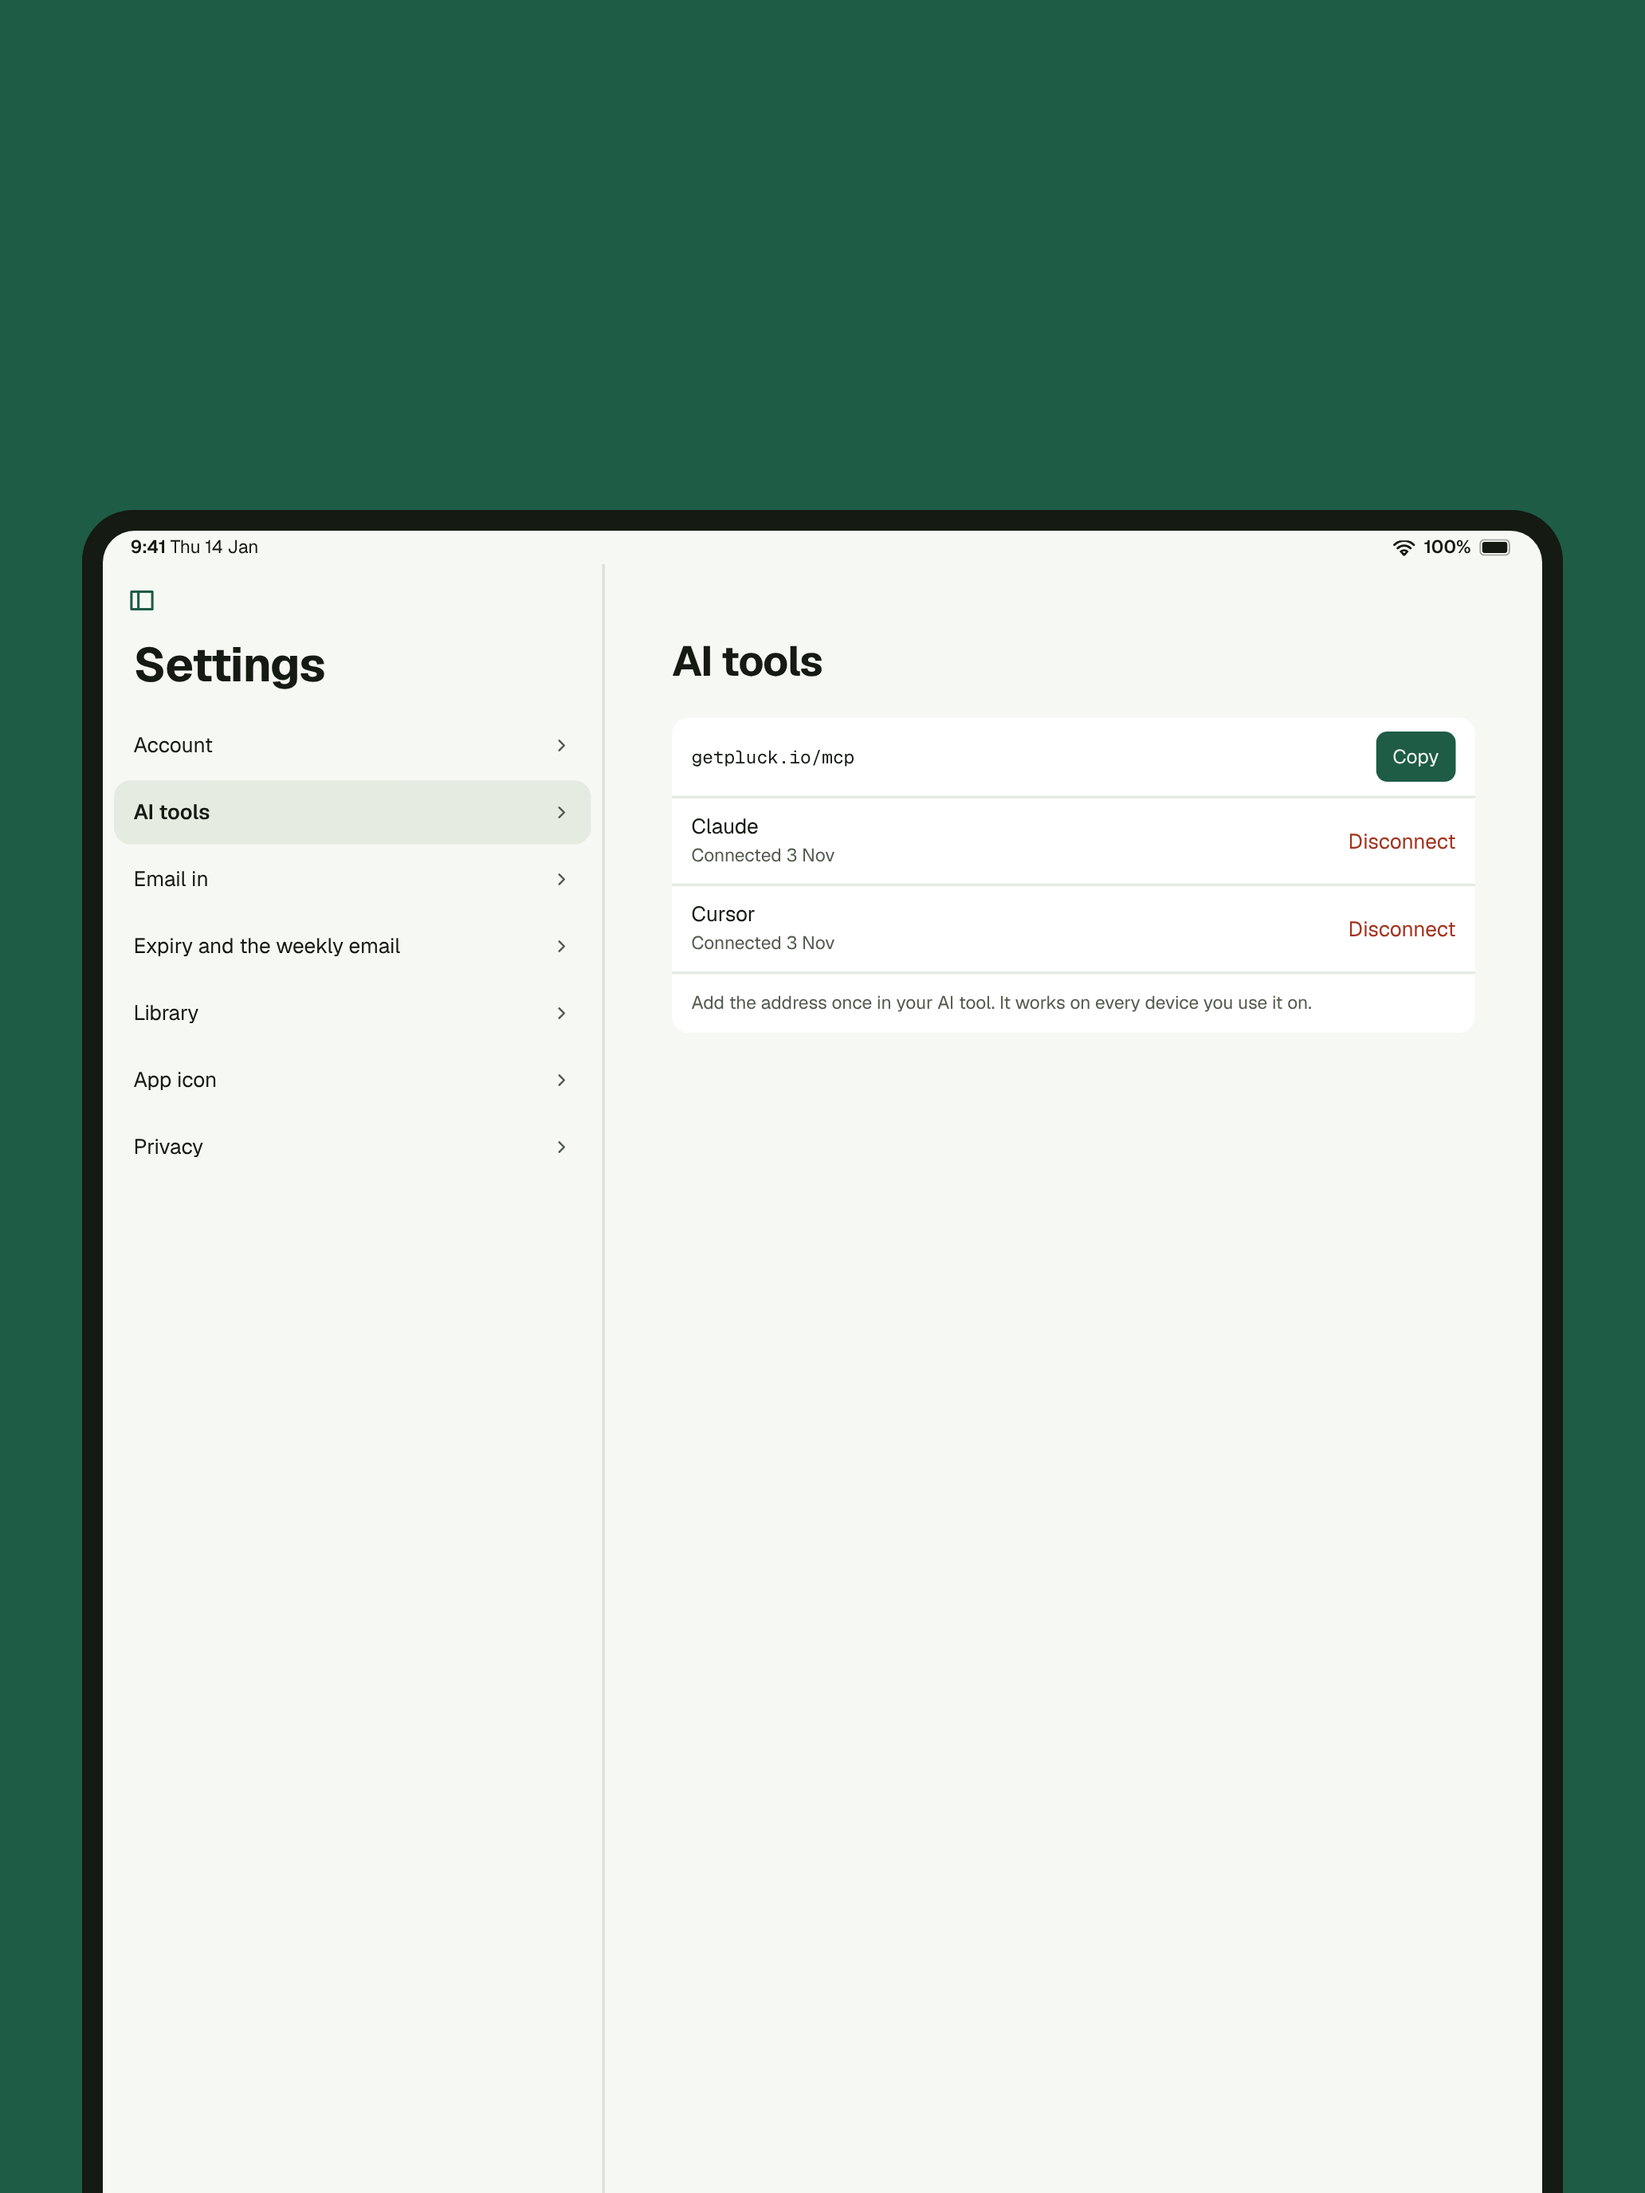
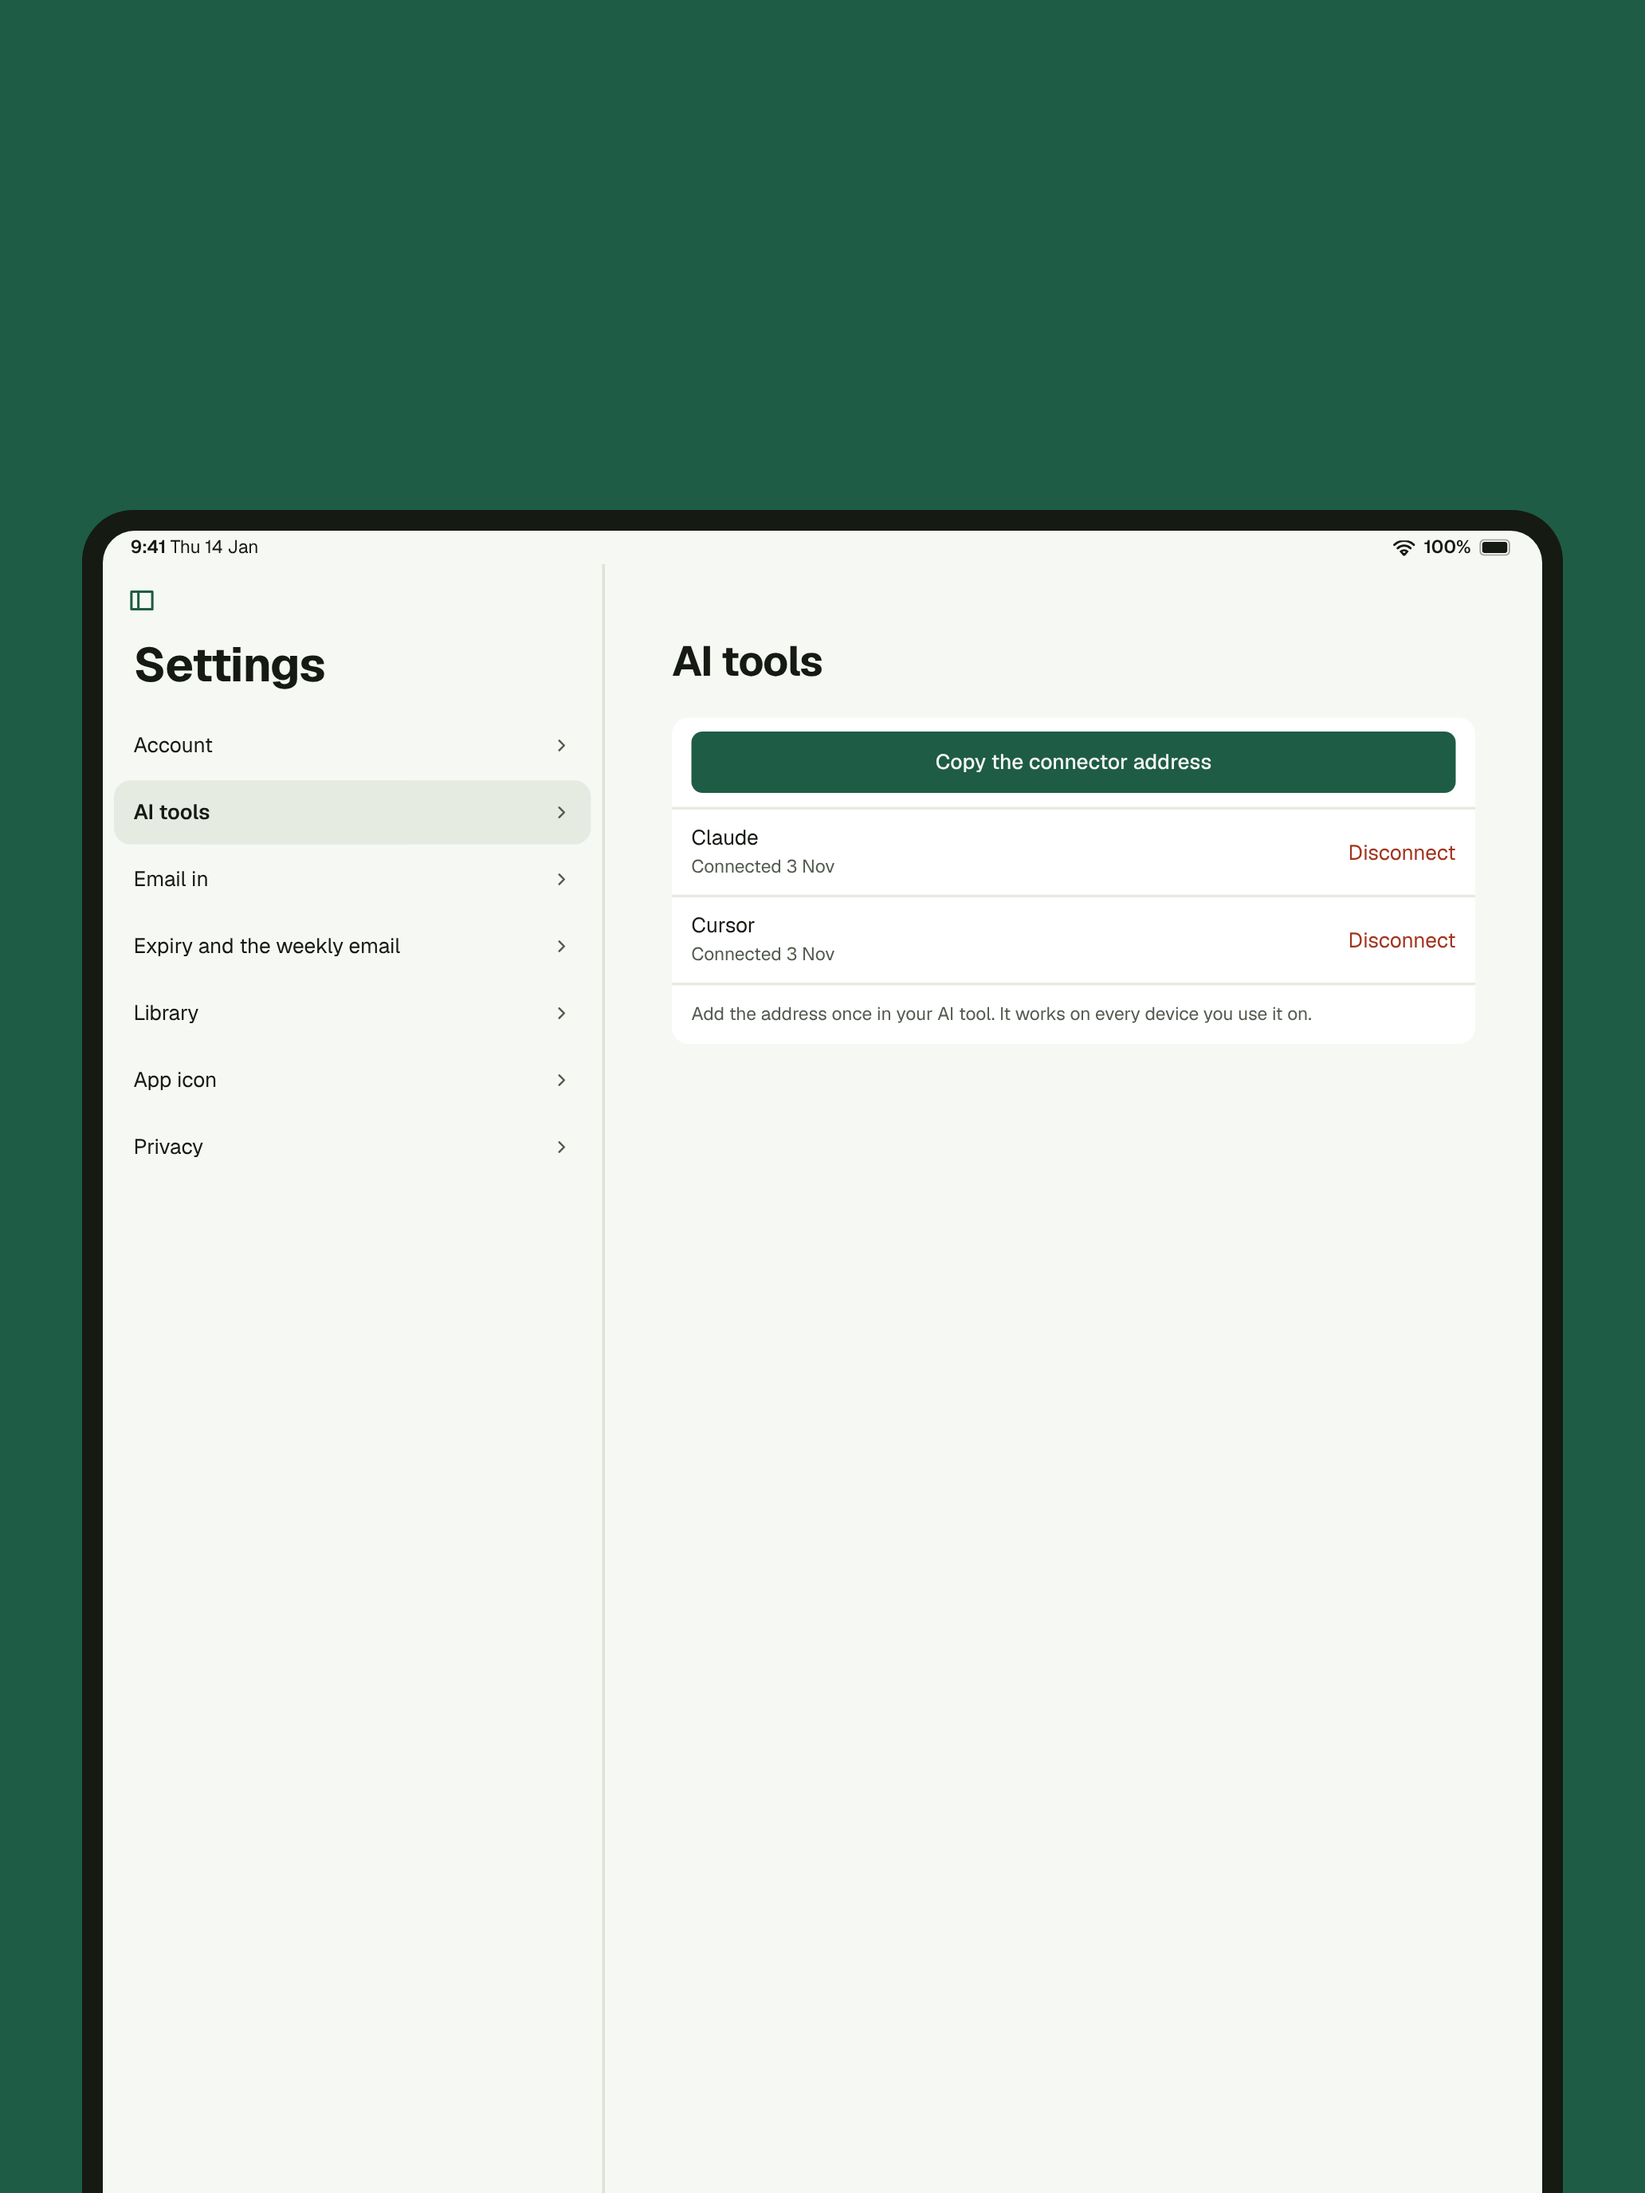
App Store iPad frame 6: the AI tools page as the app draws it
One full-width Copy the connector address button, Claude and Cursor with
Disconnect, and the hint. No address row.

Claude-Session: https://claude.ai/code/session_01RgTp73qDi7Am1LV9vHyQvh

Changed region(s): [[0.4031, 0.3125, 0.8992, 0.4688]]

diff --git a/docs/handover/design/AppStore-iPad-6.dc.html b/docs/handover/design/AppStore-iPad-6.dc.html
@@ -25,7 +25,7 @@
 <div style="padding: 0 22px 6px"><div style="font-size: 34px; line-height: 41px; font-weight: 700; letter-spacing: -0.68px; color: var(--ink)">Settings</div></div>
 <div style="display: flex; flex-direction: column; gap: 2px; margin-top: 8px"><div style="display: flex; align-items: center; gap: 12px; min-height: 46px; padding: 0 14px; margin: 0 8px; border-radius: 12px; "><span style="flex: 1; font-size: 15px; ; color: var(--ink)">Account</span><svg width="14" height="14" viewBox="0 0 16 16" style="flex: none; display: block"><path d="M6 4l4 4-4 4" fill="none" stroke="var(--ink2)" stroke-width="1.6" stroke-linecap="round" stroke-linejoin="round"/></svg></div><div style="display: flex; align-items: center; gap: 12px; min-height: 46px; padding: 0 14px; margin: 0 8px; border-radius: 12px; background: var(--selected)"><span style="flex: 1; font-size: 15px; font-weight: 600; color: var(--ink)">AI tools</span><svg width="14" height="14" viewBox="0 0 16 16" style="flex: none; display: block"><path d="M6 4l4 4-4 4" fill="none" stroke="var(--ink2)" stroke-width="1.6" stroke-linecap="round" stroke-linejoin="round"/></svg></div><div style="display: flex; align-items: center; gap: 12px; min-height: 46px; padding: 0 14px; margin: 0 8px; border-radius: 12px; "><span style="flex: 1; font-size: 15px; ; color: var(--ink)">Email in</span><svg width="14" height="14" viewBox="0 0 16 16" style="flex: none; display: block"><path d="M6 4l4 4-4 4" fill="none" stroke="var(--ink2)" stroke-width="1.6" stroke-linecap="round" stroke-linejoin="round"/></svg></div><div style="display: flex; align-items: center; gap: 12px; min-height: 46px; padding: 0 14px; margin: 0 8px; border-radius: 12px; "><span style="flex: 1; font-size: 15px; ; color: var(--ink)">Expiry and the weekly email</span><svg width="14" height="14" viewBox="0 0 16 16" style="flex: none; display: block"><path d="M6 4l4 4-4 4" fill="none" stroke="var(--ink2)" stroke-width="1.6" stroke-linecap="round" stroke-linejoin="round"/></svg></div><div style="display: flex; align-items: center; gap: 12px; min-height: 46px; padding: 0 14px; margin: 0 8px; border-radius: 12px; "><span style="flex: 1; font-size: 15px; ; color: var(--ink)">Library</span><svg width="14" height="14" viewBox="0 0 16 16" style="flex: none; display: block"><path d="M6 4l4 4-4 4" fill="none" stroke="var(--ink2)" stroke-width="1.6" stroke-linecap="round" stroke-linejoin="round"/></svg></div><div style="display: flex; align-items: center; gap: 12px; min-height: 46px; padding: 0 14px; margin: 0 8px; border-radius: 12px; "><span style="flex: 1; font-size: 15px; ; color: var(--ink)">App icon</span><svg width="14" height="14" viewBox="0 0 16 16" style="flex: none; display: block"><path d="M6 4l4 4-4 4" fill="none" stroke="var(--ink2)" stroke-width="1.6" stroke-linecap="round" stroke-linejoin="round"/></svg></div><div style="display: flex; align-items: center; gap: 12px; min-height: 46px; padding: 0 14px; margin: 0 8px; border-radius: 12px; "><span style="flex: 1; font-size: 15px; ; color: var(--ink)">Privacy</span><svg width="14" height="14" viewBox="0 0 16 16" style="flex: none; display: block"><path d="M6 4l4 4-4 4" fill="none" stroke="var(--ink2)" stroke-width="1.6" stroke-linecap="round" stroke-linejoin="round"/></svg></div></div></section><main style="flex: 1; min-width: 0; background: var(--ground)"><div style="width: 100%; max-width: 640px; box-sizing: border-box; margin: 0 auto; padding: 52px 32px 24px; display: flex; flex-direction: column; gap: 22px">
 <div style="font-size: 30px; line-height: 36px; font-weight: 700; letter-spacing: -0.6px; color: var(--ink)">AI tools</div>
-<div style="border-radius: 12px; overflow: hidden; background: #FFFFFF"><div style="min-height: 48px; padding: 10px 14px; box-sizing: border-box; display: flex; align-items: center; justify-content: space-between; gap: 12px; border-bottom: 2px solid #E6EBE2"><span style="font: 13px 'Menlo', 'Geist Mono', ui-monospace, monospace; color: #151A13">getpluck.io/mcp</span><span style="min-height: 36px; padding: 0 12px; border-radius: 8px; background: #1E5C45; color: #F6F8F4; font-size: 14px; display: inline-flex; align-items: center">Copy</span></div><div style="min-height: 48px; padding: 10px 14px; box-sizing: border-box; display: flex; align-items: center; justify-content: space-between; gap: 12px; border-bottom: 2px solid #E6EBE2"><span style="display: flex; flex-direction: column; gap: 1px"><span style="font-size: 15px; color: #151A13">Claude</span><span style="font-size: 13px; color: #525A4E">Connected 3 Nov</span></span><span style="font-size: 15px; color: #A3341F">Disconnect</span></div><div style="min-height: 48px; padding: 10px 14px; box-sizing: border-box; display: flex; align-items: center; justify-content: space-between; gap: 12px; border-bottom: 2px solid #E6EBE2"><span style="display: flex; flex-direction: column; gap: 1px"><span style="font-size: 15px; color: #151A13">Cursor</span><span style="font-size: 13px; color: #525A4E">Connected 3 Nov</span></span><span style="font-size: 15px; color: #A3341F">Disconnect</span></div><div style="padding: 12px 14px; font-size: 13px; line-height: 18px; color: #525A4E">Add the address once in your AI tool. It works on every device you use it on.</div></div></div></main></div></div></div></div></div>
+<div style="border-radius: 12px; overflow: hidden; background: #FFFFFF"><div style="padding: 10px 14px; border-bottom: 2px solid #E6EBE2"><div style="min-height: 44px; border-radius: 8px; background: #1E5C45; color: #F6F8F4; font-size: 15px; font-weight: 500; display: flex; align-items: center; justify-content: center">Copy the connector address</div></div><div style="min-height: 48px; padding: 10px 14px; box-sizing: border-box; display: flex; align-items: center; justify-content: space-between; gap: 12px; border-bottom: 2px solid #E6EBE2"><span style="display: flex; flex-direction: column; gap: 1px"><span style="font-size: 15px; color: #151A13">Claude</span><span style="font-size: 13px; color: #525A4E">Connected 3 Nov</span></span><span style="font-size: 15px; color: #A3341F">Disconnect</span></div><div style="min-height: 48px; padding: 10px 14px; box-sizing: border-box; display: flex; align-items: center; justify-content: space-between; gap: 12px; border-bottom: 2px solid #E6EBE2"><span style="display: flex; flex-direction: column; gap: 1px"><span style="font-size: 15px; color: #151A13">Cursor</span><span style="font-size: 13px; color: #525A4E">Connected 3 Nov</span></span><span style="font-size: 15px; color: #A3341F">Disconnect</span></div><div style="padding: 12px 14px; font-size: 13px; line-height: 18px; color: #525A4E">Add the address once in your AI tool. It works on every device you use it on.</div></div></div></main></div></div></div></div></div>
 <div data-layer="text" style="position: absolute; left: 140px; right: 140px; top: 150px; height: 480px; display: flex; flex-direction: column; gap: 30px; color: #F6F8F4">
 <h1 style="margin: 0; font-family: 'Fredoka', 'Geist', sans-serif; font-weight: 700; font-size: 132px; line-height: 1.02; letter-spacing: -0.03em; text-wrap: balance">There's no AI in here<span style="color: #7FD3AE">.</span></h1>
 <p style="margin: 0; font-size: 54px; line-height: 70px; color: #CFE0D6; text-wrap: balance; max-width: 1600px">Bring your own. Your AI tools can read and sort, and never delete.</p>
